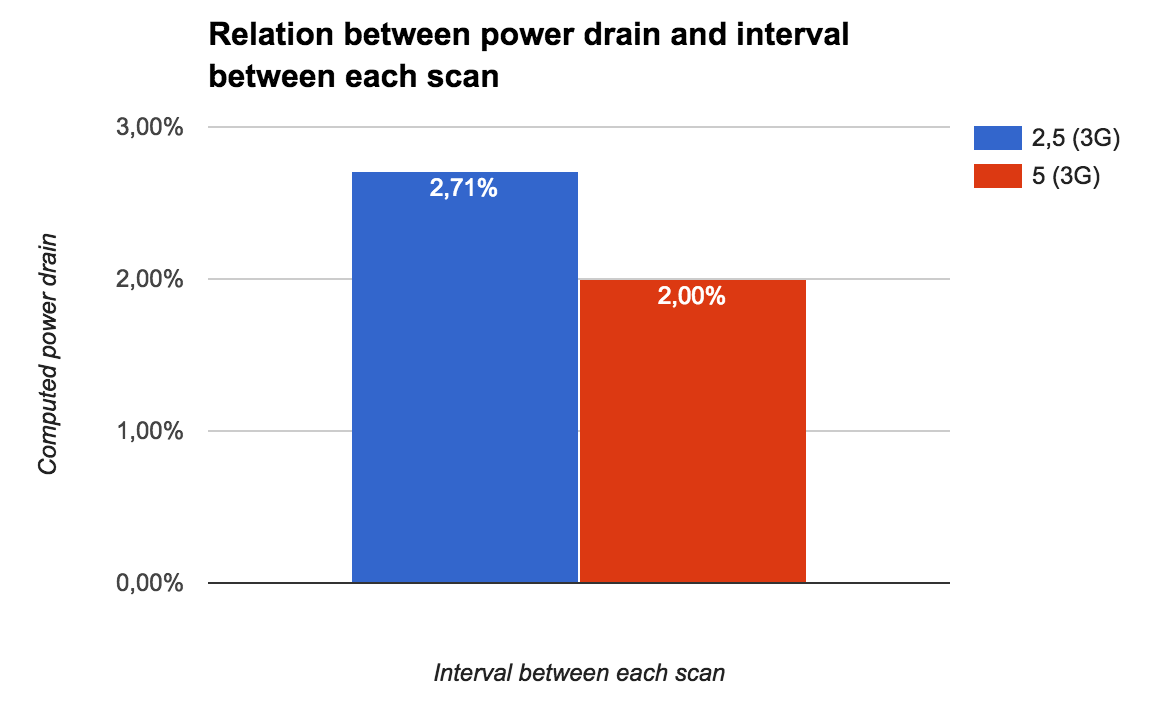
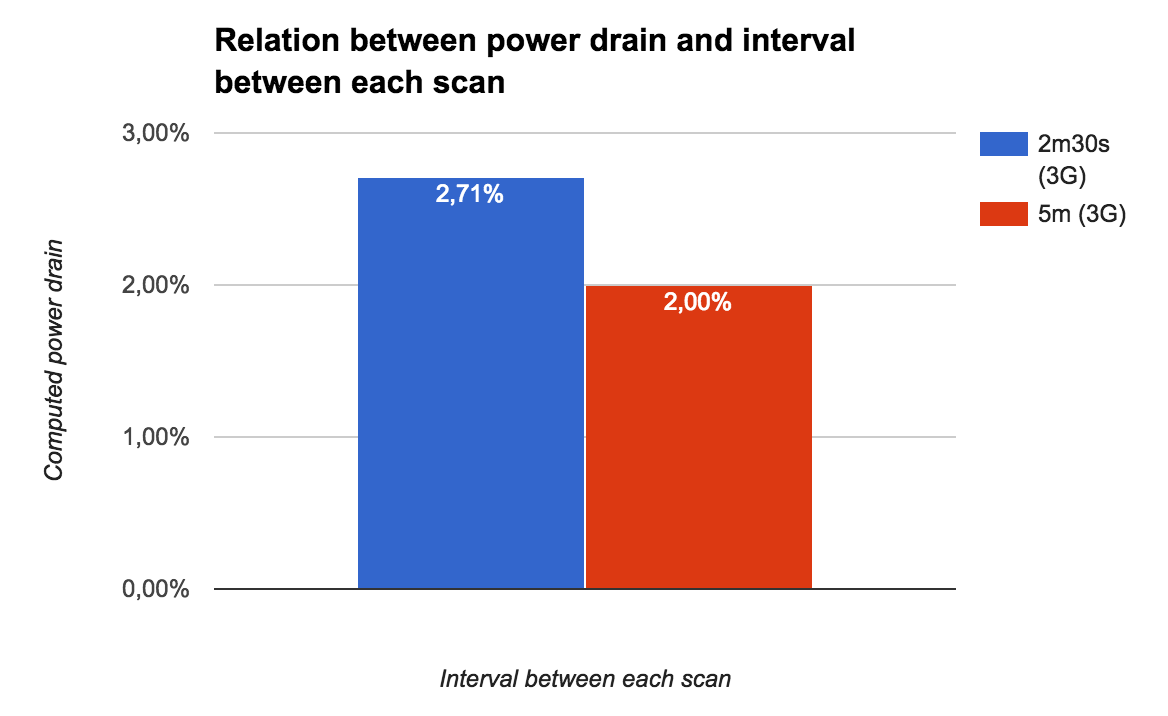
Fixed graphics and tables in Evaluation chapter. Closes #158

diff --git a/dissertation/tables/experiments_nearest_beacon.tex b/dissertation/tables/experiments_nearest_beacon.tex
@@ -5,13 +5,13 @@
 \centering
 \begin{tabular}{@{}|l|c|c|c|c|@{}}
 \toprule
-\multicolumn{1}{|c|}{\multirow{2}{*}{\textbf{Variables}}} & \multicolumn{4}{c|}{\textbf{Experiments}} \\ \cmidrule(l){2-5}
-\multicolumn{1}{|c|}{} & \textbf{1} & \textbf{2} & \textbf{3} & \textbf{4} \\ \midrule
-Events & \multicolumn{4}{c|}{\begin{tabular}[c]{@{}c@{}}For each beacon, \\ how many times \\ it was scanned\end{tabular}} \\ \midrule
-Number of beacons & \multicolumn{4}{c|}{3} \\ \midrule
-Interval between each scan (seconds) & \multicolumn{4}{c|}{10} \\ \midrule
-Experiment duration (minutes) & \multicolumn{4}{c|}{5} \\ \midrule
-Distance between beacons (meters) & \multicolumn{1}{r|}{0.5} & \multicolumn{1}{r|}{1} & \multicolumn{1}{r|}{1.5} & \multicolumn{1}{r|}{2} \\ \bottomrule
+\multicolumn{1}{|c|}{\multirow{2}{*}{\textbf{Variables}}} & \multicolumn{4}{c|}{\textbf{Experiments}}                                                                         \\ \cmidrule(l){2-5}
+\multicolumn{1}{|c|}{}                                    & \textbf{1}                  & \textbf{2}                & \textbf{3}                  & \textbf{4}                \\ \midrule
+Events                                                    & \multicolumn{4}{c|}{\begin{tabular}[c]{@{}c@{}}For each beacon, \\ how many times \\ it was scanned\end{tabular}} \\ \midrule
+Number of beacons                                         & \multicolumn{4}{c|}{3}                                                                                            \\ \midrule
+Interval between each scan                                & \multicolumn{4}{c|}{10s}                                                                                          \\ \midrule
+Experiment duration                                       & \multicolumn{4}{c|}{5m}                                                                                           \\ \midrule
+Distance between beacons (meters)                         & \multicolumn{1}{r|}{0.5}    & \multicolumn{1}{r|}{1}    & \multicolumn{1}{r|}{1.5}    & \multicolumn{1}{r|}{2}    \\ \bottomrule
 \end{tabular}
 \caption[Nearest beacon experiments summary]{Experiments to get the accuracy of the method to get the nearest beacon}
 \label{tab:experiments_nearest_beacon}

diff --git a/dissertation/tables/experiments_battery.tex b/dissertation/tables/experiments_battery.tex
@@ -4,11 +4,11 @@
 \centering
 \begin{tabular}{@{}|c|c|c|c|c|@{}}
 \toprule
-\multicolumn{1}{|l|}{}                     & \multicolumn{4}{c|}{{\bf Experiments}}                                                                \\ \midrule
-{\bf Variables}                            & {\bf 1}                  & {\bf 2}                & {\bf 3}                  & {\bf 4}                \\ \midrule
-{\bf Data connection type}                 & \multicolumn{2}{c|}{WiFi}                         & \multicolumn{2}{c|}{3G}                           \\ \midrule
-{\bf Interval between each scan (minutes)} & \multicolumn{1}{r|}{2.5} & \multicolumn{1}{r|}{5} & \multicolumn{1}{r|}{2.5} & \multicolumn{1}{r|}{5} \\ \midrule
-{\bf Experiment duration (hours)}          & \multicolumn{4}{c|}{1}                                                                                \\ \bottomrule
+\multicolumn{1}{|l|}{}              & \multicolumn{4}{c|}{\textbf{Experiments}}                                                                   \\ \midrule
+\textbf{Variables}                  & \textbf{1}                 & \textbf{2}              & \textbf{3}                 & \textbf{4}              \\ \midrule
+\textbf{Data connection type}       & \multicolumn{2}{c|}{WiFi}                            & \multicolumn{2}{c|}{3G}                              \\ \midrule
+\textbf{Interval between each scan} & \multicolumn{1}{r|}{2m30s} & \multicolumn{1}{r|}{5m} & \multicolumn{1}{r|}{2m30s} & \multicolumn{1}{r|}{5m} \\ \midrule
+\textbf{Experiment duration}        & \multicolumn{4}{c|}{1h}                                                                                     \\ \bottomrule
 \end{tabular}
 \caption[Battery consumption results]{Summary of experiments to get the battery consumption when the mobile
 app is scanning for beacons in the background}

diff --git a/dissertation/tables/results_battery_walking.tex b/dissertation/tables/results_battery_walking.tex
@@ -4,11 +4,11 @@
 \centering
 \begin{tabular}{@{}|l|r|r|r|r|@{}}
 \toprule
-{\bf }                                        & \multicolumn{4}{c|}{{\bf Results}}                  \\ \midrule
-{\bf Data connection type}                    & \multicolumn{2}{c|}{WiFi} & \multicolumn{2}{c|}{3G} \\ \midrule
-{\bf Interval between each scan (minutes)}    & 2.5         & 5           & 2.5         & 5         \\ \midrule
-{\bf Computed power drain (\%)}               & 0.01        & 0.01        & 2.71        & 2.00      \\ \midrule
-{\bf Data transferred (KB sent and received)} & 71.44       & 67.86       & 229.96      & 138.26    \\ \bottomrule
+\textbf{}                                        & \multicolumn{4}{c|}{\textbf{Results}}               \\ \midrule
+\textbf{Data connection type}                    & \multicolumn{2}{c|}{WiFi} & \multicolumn{2}{c|}{3G} \\ \midrule
+\textbf{Interval between each scan}              & 2m30s       & 5m          & 2m30s      & 5m         \\ \midrule
+\textbf{Computed power drain (\%)}               & 0.01        & 0.01        & 2.71       & 2.00       \\ \midrule
+\textbf{Data transferred (KB sent and received)} & 71.44       & 67.86       & 229.96     & 138.26     \\ \bottomrule
 \end{tabular}
 \caption[Power drain when the user is moving]{Results of the experiments to get the battery consumption in the scenario where the user is moving along multiple Smart Places}
 \label{tab:results_battery_walking}

diff --git a/dissertation/tables/results_battery_stopped.tex b/dissertation/tables/results_battery_stopped.tex
@@ -4,11 +4,11 @@
 \centering
 \begin{tabular}{@{}|l|r|r|r|r|@{}}
 \toprule
-{\bf }                                        & \multicolumn{4}{c|}{{\bf Results}}                  \\ \midrule
-{\bf Data connection type}                    & \multicolumn{2}{c|}{WiFi} & \multicolumn{2}{c|}{3G} \\ \midrule
-{\bf Interval between each scan (minutes)}    & 2.5          & 5          & 2.5        & 5          \\ \midrule
-{\bf Computed power drain (\%)}               & 0.00         & 0.00       & 0.40       & 0.29       \\ \midrule
-{\bf Data transferred (KB sent and received)} & 34.96        & 31.10      & 21.67      & 35.28      \\ \bottomrule
+\textbf{}                                        & \multicolumn{4}{c|}{\textbf{Results}}               \\ \midrule
+\textbf{Data connection type}                    & \multicolumn{2}{c|}{WiFi} & \multicolumn{2}{c|}{3G} \\ \midrule
+\textbf{Interval between each scan}              & 2m30s       & 5m          & 2m30s      & 5m         \\ \midrule
+\textbf{Computed power drain (\%)}               & 0.00        & 0.00        & 0.40       & 0.29       \\ \midrule
+\textbf{Data transferred (KB sent and received)} & 34.96       & 31.10       & 21.67      & 35.28      \\ \bottomrule
 \end{tabular}
 \caption[Power drain when the user is not moving]{Results of the experiments to get the battery consumption in the scenario where the user stays in the same Smart Place}
 \label{tab:results_battery_stopped}
